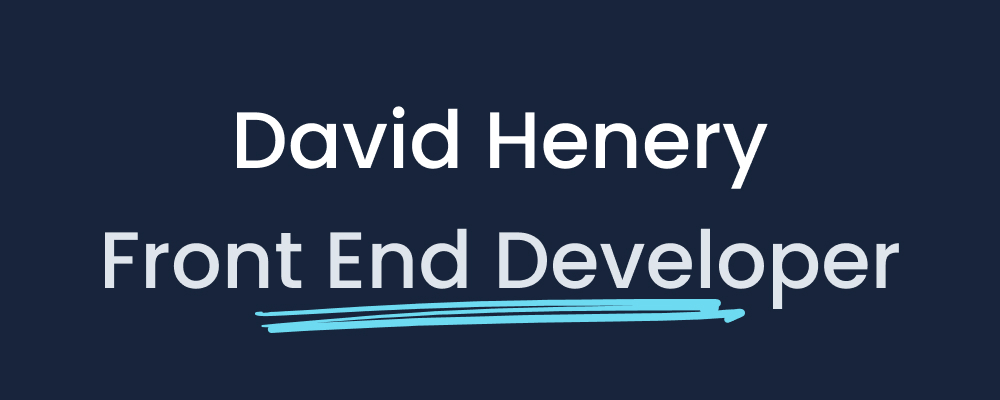
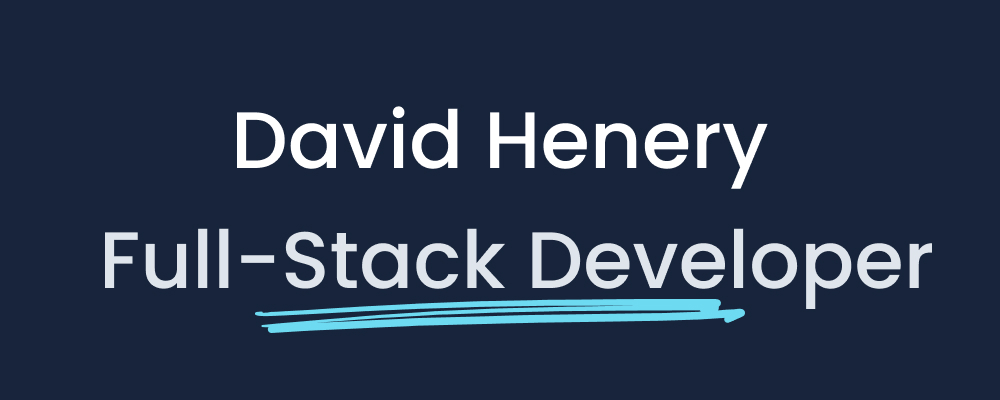
updated-whole-thing

Changed region(s): [[0.124, 0.57, 0.93, 0.78]]

diff --git a/README.md b/README.md
@@ -2,101 +2,85 @@
 
 # Hello There <img src="images/hi.gif" alt="drawing" width="24"/>
 
-My name is David, a aspiring web developer from the UK. I have a passion for learning new technologies and designing and building things with those technologies. I have a sharp eye for detail and always try and push myself that little bit further.
+ Hi, I'm David – a Full-Stack Developer from the UK
 
-In my down time you'll find me chilling watching football, listening to music or cooking and eating spicy foods :hot_pepper:
+I'm passionate about designing and building modern web applications that are fast, accessible, and user-focused. I love learning new technologies and pushing myself to create cleaner, smarter, and more effective solutions with each project. I have a sharp eye for detail and enjoy refining both frontend and backend codebases to meet high standards.
 
-- 🌱 I hope to start learning and using more technologies like Typescript, php, laravel and wordpress. I also plan to start building more fullstack projects in the future and learning the different tech that is needed like working with databases like MongoDB and mySQL.
-- 🔭 I’m currently working on honing and improving the technologies I already know such as React, NextJs and etc by building lots of projects with them.
-- 📫 If your interested in working together, get in touch here!
+When I’m not coding, you’ll probably find me watching football, vibing to music, or cooking something spicy 🌶.
 
-  [![Git Badge](https://img.shields.io/badge/LinkedIn-0077B5?&logo=linkedin&logoColor=white)](https://www.linkedin.com/in/david-henery-725458241)
+## 🚀 What I'm Working On
 
+- 🔧 Honing my skills with **React**, **Next.js**, and **TailwindCSS** by building real-world projects.
+- 🌱 Learning and integrating new technologies like **TypeScript**, **PHP**, **Laravel**, and **WordPress**.
+- 🧠 Exploring backend development more deeply — working with **MongoDB**, **MySQL**, and full-stack app architecture.
 
-If your interested in checking out my porfolio just click here: https://www.djhwebdevelopment.com
+## 🤝 Let’s Connect
+
+I’m always open to collaborating on interesting projects or just chatting about tech.
+
+- 🖥 Check out my [Portfolio](https://www.djhwebdevelopment.com/)  
+- 💻 Explore my [GitHub Projects](https://github.com/David-Henery4?tab=repositories)  
+- 📫 Reach out on [LinkedIn](https://www.linkedin.com/in/david-henery-725458241/)
+
+let’s build something great together!
+
+<br>
 
 ### **Top technologies I use**
 
+
+
+[![Next.js Badge](https://img.shields.io/badge/Next.js-000000?&style=for-the-badge&labelColor=white&logo=next.js&logoColor=000000)](#)
+[![Typescript Badge](https://img.shields.io/badge/TypeScript-3178C6?style=for-the-badge&logo=typescript&logoColor=white)](#)
 [![Javascript Badge](https://img.shields.io/badge/-Javascript-F0DB4F?style=for-the-badge&labelColor=black&logo=javascript&logoColor=F0DB4F)](#)
+[![PHP Badge](https://img.shields.io/badge/PHP-777BB4?logo=php&logoColor=white)](#)
+[![NodeJS Badge](https://img.shields.io/badge/node.js-339933?style=for-the-badge&logo=Node.js&logoColor=white)](#)
+[![mySQL Badge](https://img.shields.io/badge/MySQL-4479A1?style=for-the-badge&logo=mysql&logoColor=white)](#)
+[![postgresql Badge](https://img.shields.io/badge/postgresql-4169e1?style=for-the-badge&logo=postgresql&logoColor=white)](#)
+[![MongoDB Badge](https://img.shields.io/badge/-MongoDB-13aa52?style=for-the-badge&logo=mongodb&logoColor=white)](#)
+[![Supabase Badge](https://img.shields.io/badge/Supabase-FF5733?style=for-the-badge&logo=supabase&logoColor=white)](#)
+[![AstroJS Badge](https://img.shields.io/badge/Astro-ff5d01?style=for-the-badge&logo=astro&logoColor=ff5d0100&labelColor=191919)](#)
 [![Sass Badge](https://img.shields.io/badge/-Sass-CD6799?style=for-the-badge&labelColor=black&logo=sass&logoColor=CD6799)](#)
 [![Git Badge](https://img.shields.io/badge/-Git-DE4C36?style=for-the-badge&labelColor=black&logo=git&logoColor=DE4C36)](#)
 [![Html Badge](https://img.shields.io/badge/HTML-E44D26?style=for-the-badge&logo=html5&labelColor=black&logoColor=E44D26)](#)
 [![Css Badge](https://img.shields.io/badge/CSS-264DE4?&style=for-the-badge&labelColor=black&logo=css3&logoColor=264DE4)](#)
 [![React Badge](https://img.shields.io/badge/REACT-00D8FF?&style=for-the-badge&labelColor=black&logo=react&logoColor=00D8FF)](#)
-[![Next.js Badge](https://img.shields.io/badge/Next.js-000000?&style=for-the-badge&labelColor=white&logo=next.js&logoColor=000000)](#)
 [![Vue.js Badge](https://img.shields.io/badge/Vue.js-4FC08D?&style=for-the-badge&labelColor=black&logo=vue.js&logoColor=4FC08D)](#)
 [![Tailwind CSS Badge](https://img.shields.io/badge/Tailwind_CSS-38B2AC?&style=for-the-badge&labelColor=black&logo=tailwind-css&logoColor=38B2AC)](#)
 [![Figma Badge](https://img.shields.io/badge/Figma-F24E1E?&style=for-the-badge&labelColor=black&logo=figma&logoColor=F24E1E)](#)
-
-
-
 
 
 ## Check out a couple of my projects
 
 <br>
 
-### **Produck-Feedback - A Product Feedback application** 
-<img src="images/product-feedback-desktop.png" alt="produck-feedback-Dashboard-Image" width="400px">
+### **Metis Rail Website** 
+<img src="images/metis-rail-screenshot-resized.png" alt="Metis Rail website header" width="400px">
 
-* Live Site: [Produck-Feedback](https://produck-feedback-app.vercel.app)
-* GitHub: [Repo](https://github.com/David-Henery4/Produck-Feedback-App)
-
-<br>
-
-<br>
-
-### **Elite Aquatics - Website for a local Aquatics company** 
-<img src="images/elite-aquatics-desktop.png" alt="Elite Aquatics Landing page" width="400px">
-
-* Live Site: [eliteaquaticsuk.uk](https://eliteaquaticsuk.uk/)
-
+* Live Site: [metis-rail.co.uk](https://www.metis-rail.co.uk/)
 
 <br>
 
 <br>
 
-### **Audiophile E-Commerce** 
-<img src="images/desktop-audiophile.png" alt="Audiophile Landing" width="400px">
+### **DevLinks – Full-Stack Link Sharing Platform for Developers** 
+<img src="images/link-share-app-screenshot-resized.png" alt="DevLinks Home Dashboard" width="400px">
 
-* Live Site: [Audiophile E-Commerce](https://audiophile-ecommerce-store.netlify.app/)
-* GitHub: [Repo](https://github.com/David-Henery4/Audiophile-Ecommerce-site)
-
-<br>
-
-### **QK Invoices - Full-stack invoice creation app**
-<img src="images/invoices-desktop-screenshot.png" alt="Desktop screenshot of QK Invoices app" width="400px">
-
-* Live Site: [QK Invoices](https://qk-invoices.netlify.app/login)
-* GitHub: [Repo](https://github.com/David-Henery4/Invoice-app-Frontend)
-
-<br>
-
-### **Designo - Multi-Page Site**
-<img src="images/designo-desktop-screenshot.png" alt="Desktop screenshot of Designo home page landing" width="400px">
-
-* Live Site: [Designo](https://designo-customs.netlify.app)
-* GitHub: [Repo](https://github.com/David-Henery4/Designo-Website)
+* Live Site: [DevLinks](https://link-share-app-beta.vercel.app/)
+* Repo: [GitHub](https://github.com/David-Henery4/Link-Share-App)
 
 <br>
 
 <br>
 
-### **Dev-Jobs - Dev Bobs Search Board**
-<img src="images/dev-jobs-desktop.png" alt="Desktop screenshot of Dev Jobs, Job Board" width="400px">
+### **Markdown Generator** 
+<img src="images/markdown-editor-screenshot.png" alt="Markdown Generator Dashboard" width="400px">
 
-* Live Site: [Dev-Jobs](https://dev-jobs-4u.netlify.app)
-* GitHub: [Repo](https://github.com/David-Henery4/dev-jobs)
-
-<br>
-
-### **Where in the world? - Country Information app**
-<img src="images/countries-main-menu-desk.png" alt="Desktop screenshot of Where in the world? App main menu" width="400px">
-
-* Live Site: [Where in the world?](https://where-abouts-in-the-world.netlify.app)
-* GitHub: [Repo](https://github.com/David-Henery4/Where-in-the-world)
+* Live Site: [Markdown Generator](https://markdown-editor-md.vercel.app/)
+* GitHub: [Repo](https://github.com/David-Henery4/Markdown-Editor)
 
 <br>
+
 
 [![My GitHub stats](https://github-readme-stats.vercel.app/api?username=David-Henery4&show_icons=true&bg_color=17243B&text_color=DFE5EC&icon_color=6EDAF1&title_color=6EDAF1&hide=contribs,prs)](https://github.com/David-Henery4/github-readme-stats)
 
